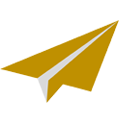
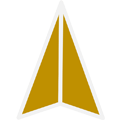
Feat：定位地图显示

diff --git a/lib/page/location/location_page.dart b/lib/page/location/location_page.dart
@@ -6,7 +6,9 @@ import 'package:loar_flutter/common/loading.dart';
 import 'package:loar_flutter/common/util/ex_widget.dart';
 
 import '../../common/colors.dart';
+import '../../common/image.dart';
 import '../../common/routers/RouteNames.dart';
+import '../../common/util/images.dart';
 import '../map/model/page_type.dart';
 
 final locationProvider =
@@ -41,7 +43,7 @@ class _LocationPageState extends ConsumerState<LocationPage> {
             Divider(
               height: 0.1.h,
             ).paddingTop(200.h),
-            _getItem("蜂窝", "我的位置", false).onTap(() {
+            _getItem(AssetsImages.iconFengWo, "蜂窝", "我的位置").onTap(() {
               if (GlobeDataManager.instance.getPosition() == null) {
                 Loading.toast("请先开启定位");
                 return;
@@ -49,7 +51,7 @@ class _LocationPageState extends ConsumerState<LocationPage> {
               Navigator.pushNamed(context, RouteNames.baiduMapPage,
                   arguments: MapDataPara(PageType.me));
             }),
-            _getItem("蜂邻", "周围都有谁", false).onTap(() {
+            _getItem(AssetsImages.iconFenLin, "蜂邻", "周围都有谁").onTap(() {
               if (GlobeDataManager.instance.getPosition() == null) {
                 Loading.toast("请先开启定位");
                 return;
@@ -57,7 +59,7 @@ class _LocationPageState extends ConsumerState<LocationPage> {
               Navigator.pushNamed(context, RouteNames.baiduMapPage,
                   arguments: MapDataPara(PageType.nearBy));
             }),
-            _getItem("蜂距", "两者距离", false).onTap(() {
+            _getItem(AssetsImages.iconFenJu, "蜂距", "两者距离").onTap(() {
               if (GlobeDataManager.instance.getPosition() == null) {
                 Loading.toast("请先开启定位");
                 return;
@@ -65,7 +67,7 @@ class _LocationPageState extends ConsumerState<LocationPage> {
               Navigator.pushNamed(context, RouteNames.baiduMapPage,
                   arguments: MapDataPara(PageType.distance));
             }),
-            _getItem("蜂行", "导航", false).onTap(() {
+            _getItem(AssetsImages.iconFenXing, "蜂行", "导航").onTap(() {
               if (GlobeDataManager.instance.getPosition() == null) {
                 Loading.toast("请先开启定位");
                 return;
@@ -73,7 +75,7 @@ class _LocationPageState extends ConsumerState<LocationPage> {
               Navigator.pushNamed(context, RouteNames.baiduMapPage,
                   arguments: MapDataPara(PageType.navigation));
             }),
-            _getItem("星图", "卫星星图", false).onTap(() {
+            _getItem("", "星图", "卫星星图").onTap(() {
               Navigator.pushNamed(context, RouteNames.satelliteMapPage);
             }),
           ],
@@ -91,11 +93,18 @@ class _LocationPageState extends ConsumerState<LocationPage> {
 extension _Action on _LocationPageState {}
 
 extension _UI on _LocationPageState {
-  Widget _getItem(String title, String? value, bool isNewPage) {
+  Widget _getItem(String image, String title, String? value) {
     return Column(
       children: [
         Row(
           children: [
+            if (image.isNotEmpty)
+              ImageWidget(
+                url: image,
+                width: 60.w,
+                height: 60.h,
+                type: ImageWidgetType.asset,
+              ).paddingRight(20.w),
             Text(
               title,
               style: TextStyle(fontSize: 38.sp, fontWeight: FontWeight.w400),
@@ -107,12 +116,6 @@ extension _UI on _LocationPageState {
               overflow: TextOverflow.ellipsis,
               style: TextStyle(fontSize: 30.sp, fontWeight: FontWeight.w400),
             ),
-            isNewPage
-                ? Icon(
-                    Icons.keyboard_arrow_right,
-                    size: 43.w,
-                  )
-                : Container()
           ],
         ).paddingHorizontal(30.w).paddingVertical(50.h),
         Divider(

diff --git a/lib/page/home/provider/im_message_provider.dart b/lib/page/home/provider/im_message_provider.dart
@@ -37,7 +37,6 @@ class ImNotifier extends ChangeNotifier {
   Map<String, OnlineUser> allOnlineUsers = {};
   Map<String, List<EMMessage>> messageMap = {};
 
-
   init() async {
     Loading.show();
     await loadData();
@@ -94,6 +93,7 @@ class ImNotifier extends ChangeNotifier {
       conversationsList = await ImCache.getConversationsList();
       groupMap = await ImCache.getGroup();
       allUsers = await ImCache.getAllUser();
+      messageMap = await ImCache.getAllMessage(allUsers.keys.toList());
       contacts = (await ImCache.getContacts()) ?? [];
     }
   }
@@ -146,6 +146,8 @@ class ImNotifier extends ChangeNotifier {
     messageList.insert(0, message);
     messageMap[conversationId] = messageList;
 
+    ImCache.saveChatMessage(conversationId, messageList);
+
     updateConversation(conversationId, message.chatType);
     if (GlobeDataManager.instance.isEaseMob) {
       EMClient.getInstance.chatManager.updateMessage(message);
@@ -165,6 +167,7 @@ class ImNotifier extends ChangeNotifier {
         "type": chatType == ChatType.Chat ? 0 : 1
       });
     }
+
     conversationsList.insert(0, conversation);
     ImCache.saveConversationsList(conversationsList);
   }
@@ -590,6 +593,7 @@ class ImNotifier extends ChangeNotifier {
       }
 
       messageMap[id] = messageList;
+      ImCache.saveChatMessage(id, messageList);
       EMClient.getInstance.chatManager.importMessages(messageList);
       notifyListeners();
     } on EMError catch (e) {}

diff --git a/lib/page/forum/forum_page.dart b/lib/page/forum/forum_page.dart
@@ -78,25 +78,25 @@ extension _UI on _MePageState {
       mainAxisSize: MainAxisSize.max,
       mainAxisAlignment: MainAxisAlignment.spaceBetween,
       children: [
-        Spacer(),
+        const Spacer(),
+        ImageWidget.asset(
+          image,
+          width: 50.w,
+          height: 50.h,
+        ),
+        SizedBox(
+          width: 20.w,
+        ),
         Text(title,
-            style: TextStyle(fontSize: 50.sp, fontWeight: FontWeight.w500)),
+            style: TextStyle(fontSize: 50.sp, fontWeight: FontWeight.w600)),
         SizedBox(
           width: 100.w,
         ),
-        Column(
-          children: [
-            ImageWidget.asset(
-              image,
-              width: 50.w,
-              height: 50.h,
-            ),
-            Text(value,
-                style: TextStyle(fontSize: 40.sp, fontWeight: FontWeight.w400)).paddingTop(5.h),
-          ],
-        ),
-        Spacer(),
+        Text(value,
+                style: TextStyle(fontSize: 40.sp, fontWeight: FontWeight.w500))
+            .paddingTop(5.h),
+        const Spacer(),
       ],
-    ).paddingVertical(60.h).paddingHorizontal(60.w);
+    ).paddingVertical(80.h).paddingHorizontal(60.w);
   }
 }

diff --git a/lib/common/util/im_cache.dart b/lib/common/util/im_cache.dart
@@ -12,6 +12,35 @@ class ImCache {
   static const meKey = "me";
   static const mePassword = "mePassword";
 
+  static Future<Map<String, List<EMMessage>>> getAllMessage(
+      List<String> conversationIdList) async {
+    Map<String, List<EMMessage>> messageMap = {};
+
+    for (var element in conversationIdList) {
+      messageMap[element] = await _getChatMessageList(element);
+    }
+    return messageMap;
+  }
+
+  static saveChatMessage(String conversationId, List<EMMessage> messageList) {
+    List<Map<String, dynamic>> saveData = [];
+    for (var element in messageList) {
+      saveData.add(element.toJson());
+    }
+
+    StorageUtils.saveList(conversationId, saveData);
+  }
+
+  static Future<List<EMMessage>> _getChatMessageList(
+      String conversationId) async {
+    var list = await StorageUtils.loadList(conversationId);
+    List<EMMessage> ret = [];
+    for (var element in list) {
+      ret.add(EMMessage.fromJson(element));
+    }
+    return ret;
+  }
+
   static saveConversationsList(List<EMConversation> conversationsList) {
     List<Map<String, dynamic>> saveData = [];
     for (var element in conversationsList) {

diff --git a/lib/common/util/images.dart b/lib/common/util/images.dart
@@ -52,6 +52,10 @@ class AssetsImages {
   static final flagELse = _loadFromPath(named: 'flagELse');
   static final flagOM = _loadFromPath(named: 'flagOM');
   static final flagJP = _loadFromPath(named: 'flagJP');
+  static final iconFenLin = _loadFromPath(named: 'iconFenLin');
+  static final iconFengWo = _loadFromPath(named: 'iconFenWo');
+  static final iconFenJu = _loadFromPath(named: 'iconFenJu');
+  static final iconFenXing = _loadFromPath(named: 'iconFenXing');
 
   static String getRandomAvatar() {
     return getAvatar(Random().nextInt(100) + 1);

diff --git a/lib/page/setting/setting_page.dart b/lib/page/setting/setting_page.dart
@@ -33,7 +33,10 @@ class _SettingPageState extends ConsumerState<SettingPage> {
       body: SafeArea(
         child: Column(
           children: [
-            _getMeItem("设备连接"),
+            _getMeItem("设备连接").onTap(() {
+              Navigator.pushNamed(context, RouteNames.blueSearchList)
+                  .then((value) => setState(() {}));
+            }),
             Gaps.line,
             _getMeItem("离线地址管理").onTap(() {
               Navigator.pushNamed(context, RouteNames.offlineMap);

diff --git a/lib/page/main_page.dart b/lib/page/main_page.dart
@@ -80,7 +80,7 @@ class _MainPageState extends ConsumerState<MainPage> {
         //点击会产生咔嗒声，长按会产生短暂的振动
         selectedItemColor: AppColors.commonPrimary,
         // 设置被选中时的图标颜色
-        unselectedItemColor: Colors.grey,
+        unselectedItemColor: AppColors.title,
         type: BottomNavigationBarType.fixed,
         // 设置未被选中时的图标颜色
         items: <BottomNavigationBarItem>[

diff --git a/lib/page/login/login_page.dart b/lib/page/login/login_page.dart
@@ -102,7 +102,7 @@ class _LoginPageState extends ConsumerState<LoginPage> {
       appBar: AppBar(
         actions: [
           Text("跳过").paddingHorizontal(30.w).onTap(() {
-            login("13265468736", "Z123456");
+            login("13265468736", "z123456");
           }),
         ],
       ),
